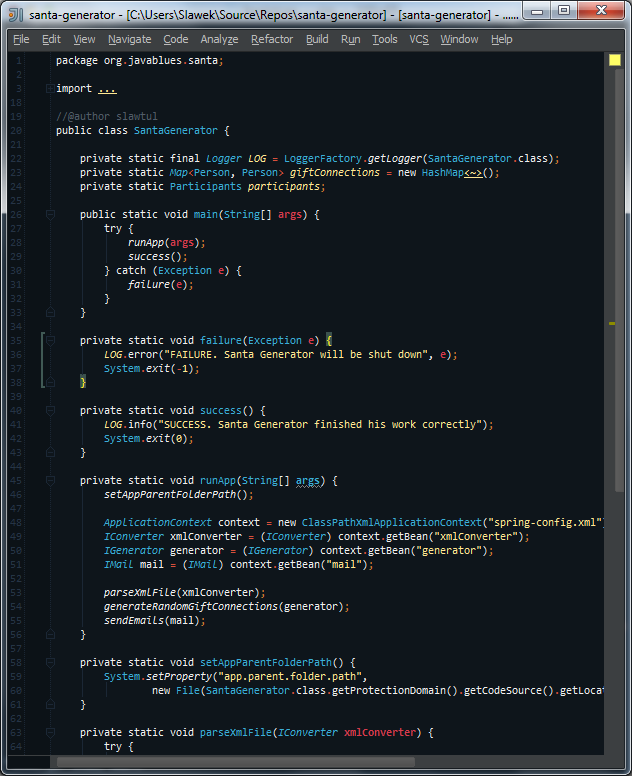
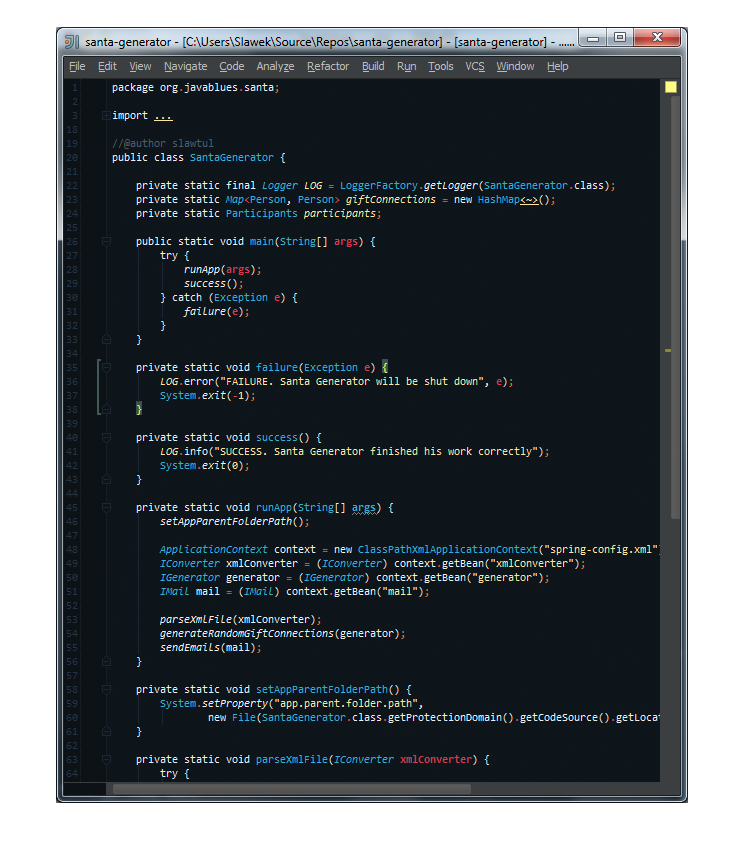
added intellij screenshot and updated readme file content

diff --git a/README.md b/README.md
@@ -7,6 +7,7 @@ It's @joeyfigaro's wonderful Glacier theme now remixed for:
 * Xcode
 * PuTTY
 * Terminal.app
+* IntelliJ
 
 ![VIM](/vim.png)
 
@@ -15,6 +16,8 @@ It's @joeyfigaro's wonderful Glacier theme now remixed for:
 ![PuTTY](/putty.png)
 
 ![Terminal.app](/terminal.png)
+
+![IntelliJ](/intellij.png)
 
 To correctly colorize your LS listings, make sure to add the following to your bash profile:
 
